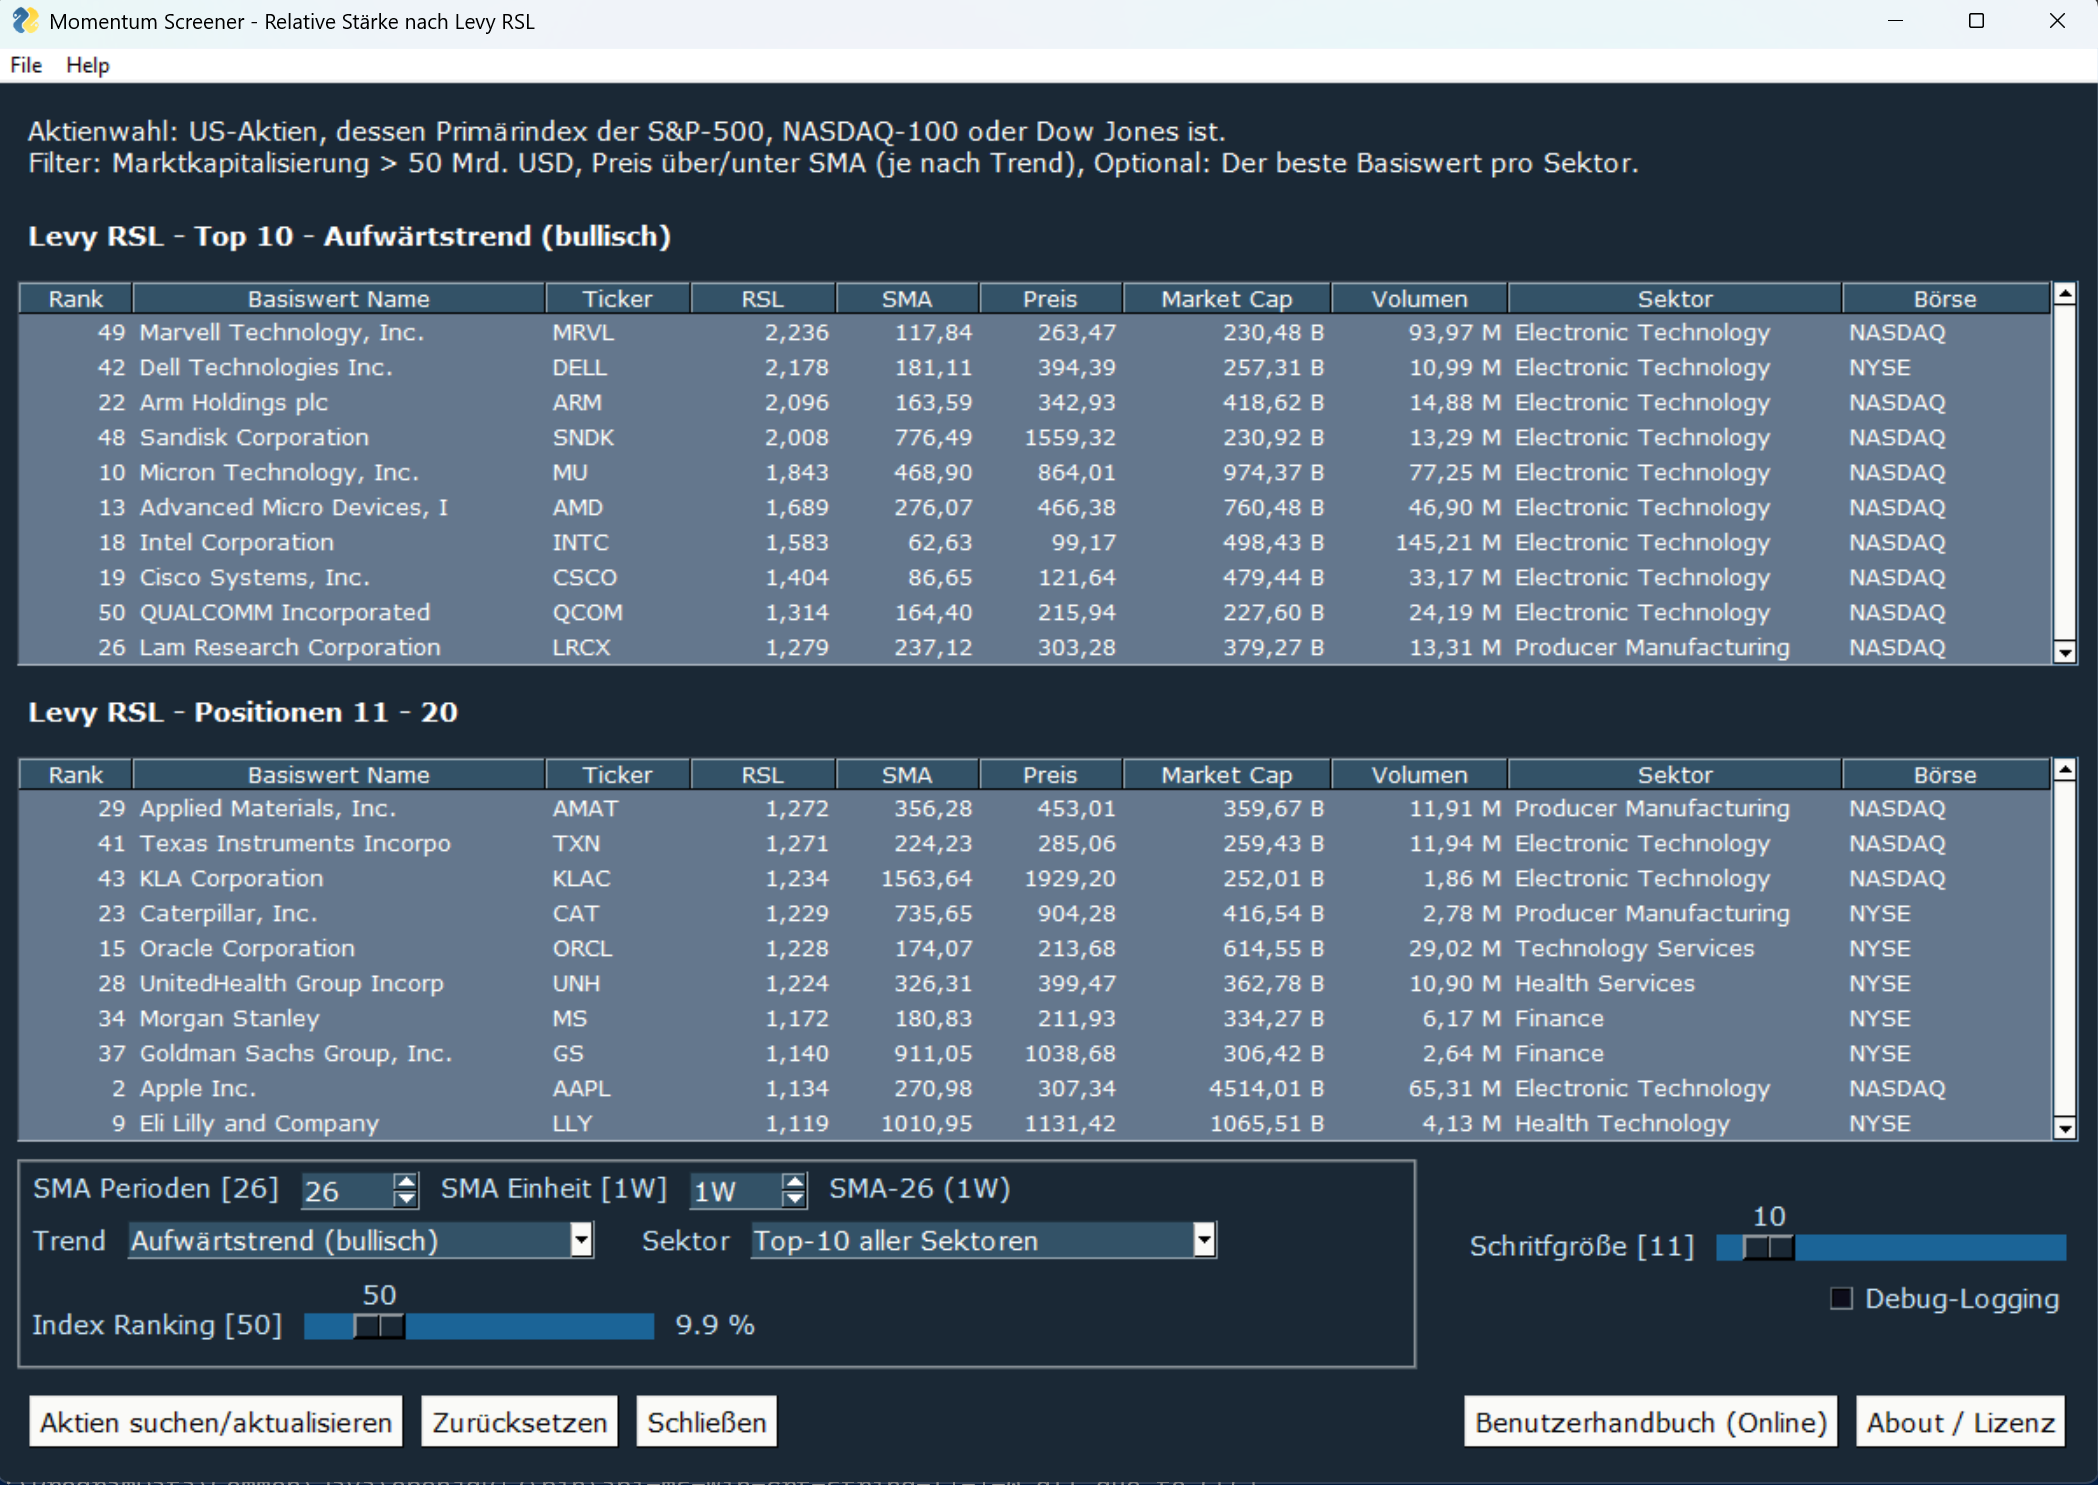
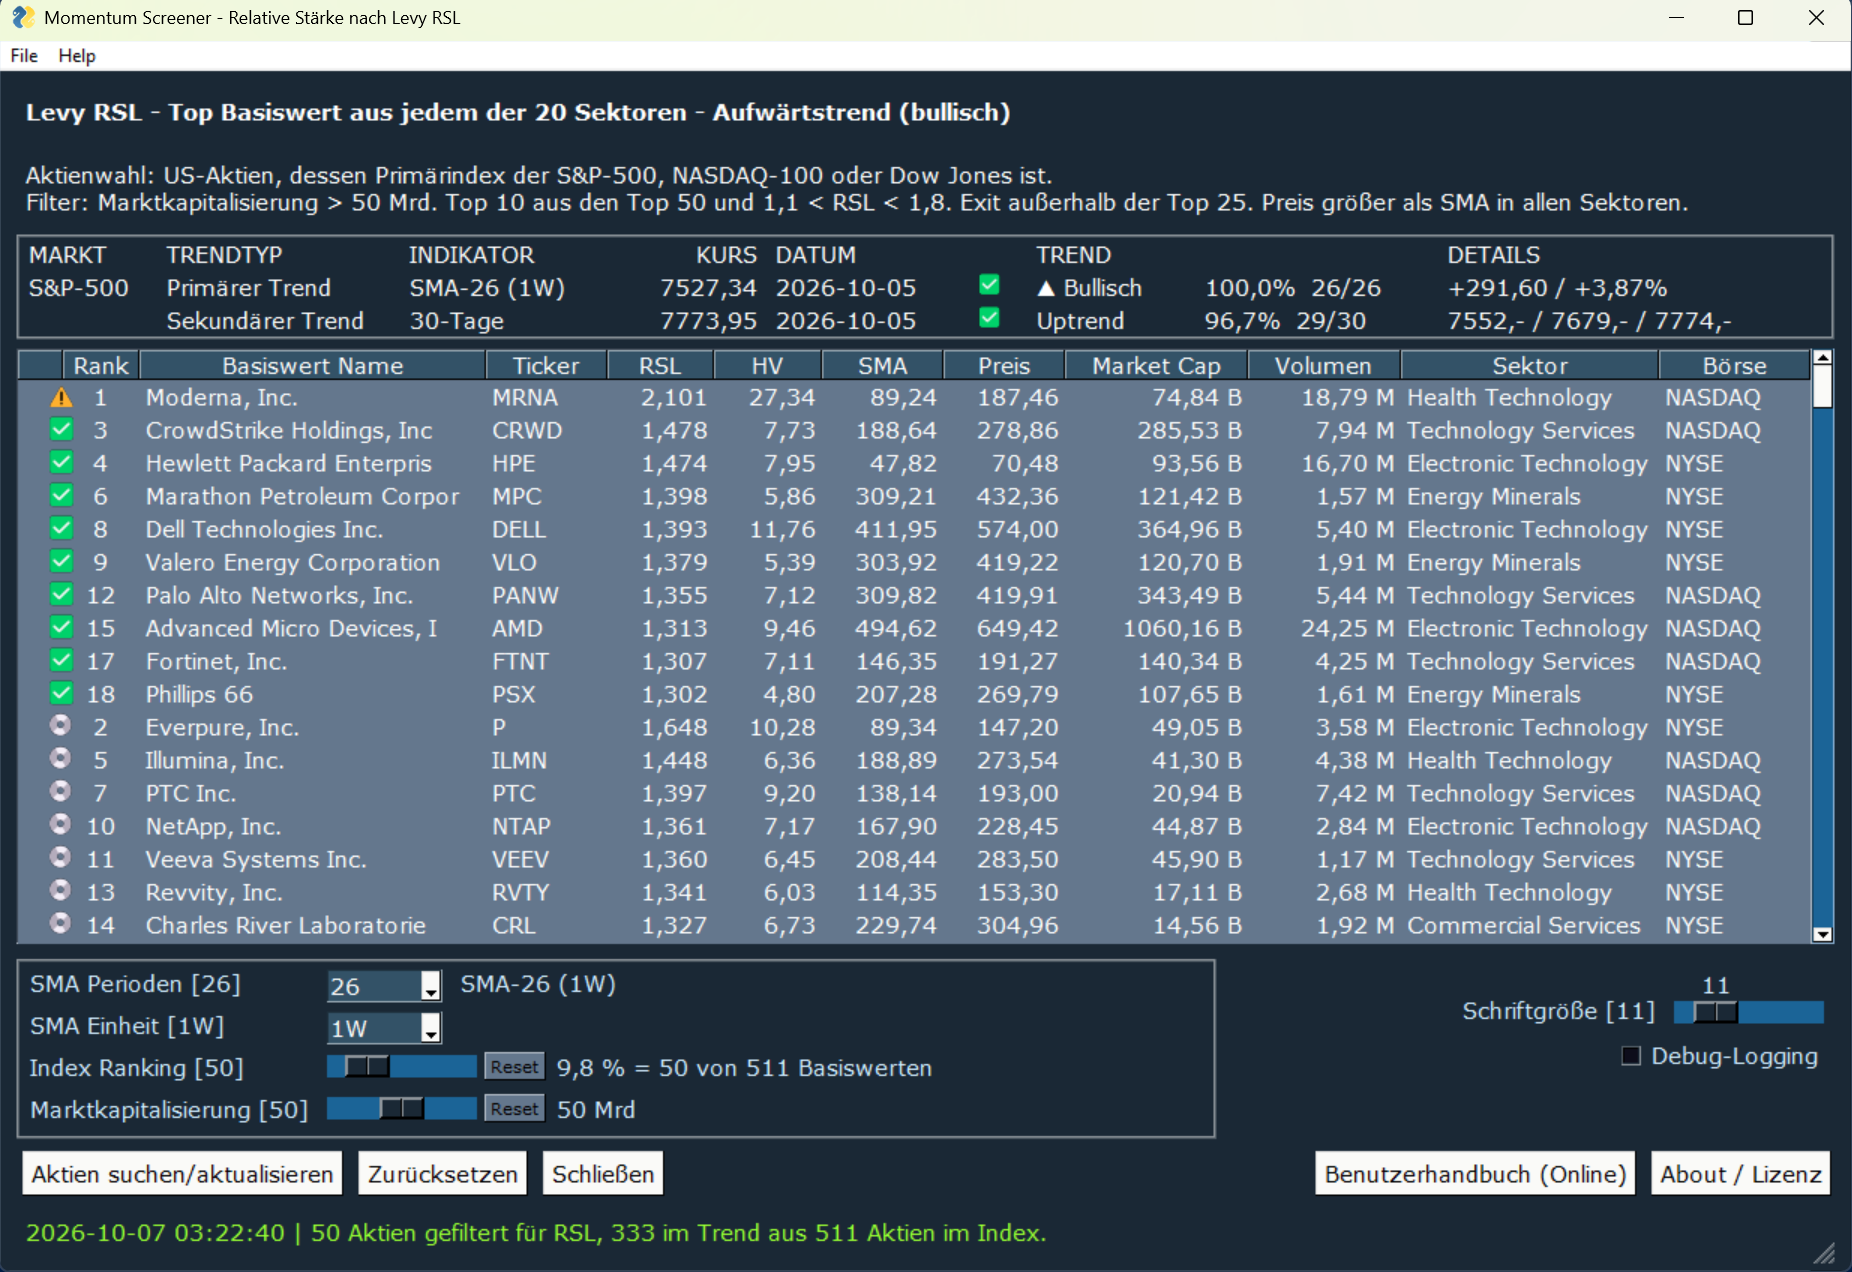
user guide für 1.1.0 erstellt. draft

diff --git a/README.md b/README.md
@@ -1,8 +1,8 @@
 # RSL Momentum Screener – Benutzerhandbuch
 
-**Relative Stärke nach Levy (RSL)** · Version 1.0
+**Relative Stärke nach Levy (RSL)** · Version 1.1
 
-Dokumentation: <https://github.com/contensys/trading-tools-rsl-docs/tree/release/1.0.0>
+Dokumentation: <https://github.com/contensys/trading-tools-rsl-docs/tree/1.1.0>
 
 > **Haftungsausschluss:** Dieses Tool dient ausschließlich Bildungs- und Forschungszwecken.
 > Es stellt **keine Anlageberatung** dar, und es werden keine Anlageempfehlungen gegeben.
@@ -25,26 +25,27 @@ Dokumentation: <https://github.com/contensys/trading-tools-rsl-docs/tree/release
 ## 1. Überblick und Zweck
 
 Der **RSL Momentum Screener** ist ein Desktop-Programm, mit dem Sie US-Aktien mit besonders
-starker oder besonders schwacher **relativer Stärke** im Vergleich zu ihrem gleitenden
-Durchschnitt (SMA) auffinden können. Grundlage ist die **Relative Stärke nach Levy (RSL)**.
+starker **relativer Stärke** im Vergleich zu ihrem gleitenden Durchschnitt (SMA) finden können
+und die ein Momentum signalisieren. Grundlage ist die **Relative Stärke nach Levy (RSL)**.  
 
 Das Tool durchsucht die Aktien der großen US-Indizes **S&P-500**, **NASDAQ-100** und
-**Dow Jones**, berechnet für jede Aktie das Verhältnis von Kurs zu gleitendem Durchschnitt und
-zeigt die stärksten (bzw. schwächsten) Werte als Rangliste an:
+**Dow Jones**, berechnet für jede Aktie die Historische Volatilität, das Verhältnis von Kurs
+zu gleitendem Durchschnitt und erstellt eine Rangliste. Die stärksten Basiswerte werden mit
+einem Ampelsignal markiert.  
 
-- **Top 10** – die zehn Basiswerte mit der höchsten relativen Stärke
-- **Positionen 11–20** – die nächsten zehn Werte der Rangliste
+Zudem wird der primäre und sekundäre Markttrend des S&P-500 ermittelt.  
 
 **Filter Kriterien**  
 
-- Der letzte **Schlußkurs** muss höher als der konfigurierte SMA sein. (Bei Abwärtstrend, niedriger) 
-- Die **Marktkapitalisierung** ist gerößer als 50 Mrd US$
+- Nur Basiswerte mit einer **Historische Volatilität** oberhalb des Median kommen in die Auswahl.
+- Der letzte **Schlußkurs** muss höher als der gewählte SMA sein.
+- In die Top 10 werden nur Basiswerte gewählt, die höher als die gewählte **Marktkapitalisierung** liegen (Standard: 50 Mrd US$)
 - Der Basiswert muss in den oben genannte **Indexes primär gelistet** sein
 - Der RSL-Wert des Basiswertes muss in den **Top 50 des Indexes** liegen (oder dessen konfigurierter Wert). Mehr Details hierzu finden sie im Kapitel "Strategie richtig anwenden".
 
-**Datenquelle**
+**Datenquelle**  
 
-Die Berechnung erfolgt live über die öffentliche TradingView-Datenbank. Es ist kein Konto und
+Die Berechnung erfolgt live über die öffentliche TradingView- und Yahoo-Finance Datenbank. Es ist kein Konto und
 keine Anmeldung erforderlich. Die Daten sind um 15 Minuten verzögert.  
 
 ---
@@ -53,7 +54,8 @@ keine Anmeldung erforderlich. Die Daten sind um 15 Minuten verzögert.
 
 Die fertigen Programmpakete stehen im OneDrive-Bereich zum Download bereit:
 
-➡ **Download:** <https://schranz.sharepoint.com/:f:/s/bigbusiness/IgBePagCvFo4TKmHnN8BnKdQAZoA5pxNeliCAKHlAJi7RkM>
+➡ **Download:** ![Static Badge](https://img.shields.io/badge/release-latest-green)  
+<https://schranz.sharepoint.com/:f:/s/bigbusiness/IgBePagCvFo4TKmHnN8BnKdQAZoA5pxNeliCAKHlAJi7RkM>
 
 | Plattform | Paketname                              |
 |-----------|----------------------------------------|
@@ -86,6 +88,24 @@ zunächst blockieren. Das ist normal und kein Hinweis auf Schadsoftware.
    - Anschließend auf **„Trotzdem ausführen“ (Run anyway)** klicken.
 
 Diese Bestätigung ist nur beim ersten Start erforderlich.
+
+---
+
+## 3. Key Features
+
+- **Ampelfarben:** Die Top-10 werden mit Emojis markiert. (✅, ⚠, 🔴)
+- **Exit Signal:** Alle Basiswerte innerhalb des Top-n Rangliste werden markiert. (💿) Positionen außerhalb der Top-n Rangliste werden verkauft.
+- **Relative Stärke nach Levy:** Der RSL Indikator wird für alle Basiswerte des Index berechnet.
+- **Historische Volatilität:** Berechnung der Historischen Volatilität nach Levy zur Ermittlung des Momentum.
+- **Rangliste:** Es wird eine Rangliste 1..n über alle Basiswerte des Index erstellt.
+- **Markttrend Bewertung:** Es wird der primäre Trend der letzten 26 Wochen und sekundäre Trend der letzten 30 Tage berechnet. Das Ergebnise wird mithilfe von Ampelfarben und Trendrichtung angezeigt (Bullisch, Bärisch, Uptrend, Downtrend und Mixed).
+- **Selektive Auswahl Basiswerte:** Es werden die alle relevanten Basiswerte des Index ermittelt und aufgelistet. Die Liste enthält alle Basiswerte, die über dem Median der Historischen Volatilität liegen oder einen RSL > 1,0 haben.
+- **Sortieren:** Alle Spalten der Tabelle können per Mausklick aufsteigend und absteigend sortiert werden.
+- **Suchen und Filter:** Basiswerte können durch einfache Eingabe des Tickers gesucht und gefiltert werden.
+- **Filtereinstellungen:** Die Marktkapitalisierung, die Anzahl der Rangliste, der Zeitraum (Perioden) und die Zeiteinheit (Tage, Wochen, Monate) kann bei Bedarf geändert werden. Mit einem Knopfdruck können die empfohlenen Standardeinstellungen wiederhergestellt werden.
+- **Schnelles Laden:** Die Daten werden für 15 Minuten gespeichert. Danach werden diese neue geladen und neu berechnet. So können unterschiedliche Perioden und Einheiten geladen werden und schnell wieder zurück wechseln. Zudem werden die maximalen Abfragelimits geschont.
+- **Fehlerbehandlung:** Schwerwiegende Fehler werden in Deutsch angezeigt. Darunter sind auch "Abfrage Einschränkungen", "Verbindungsfehler", "Berechnungsfehler" u.v.m.
+- **Schriftgröße:** Die Schriftgröße der Basiswert Tabelle und Markttrendbewertung kann geändert werden. Die Größe der App wird automatisch angepasst.
 
 ---
 
